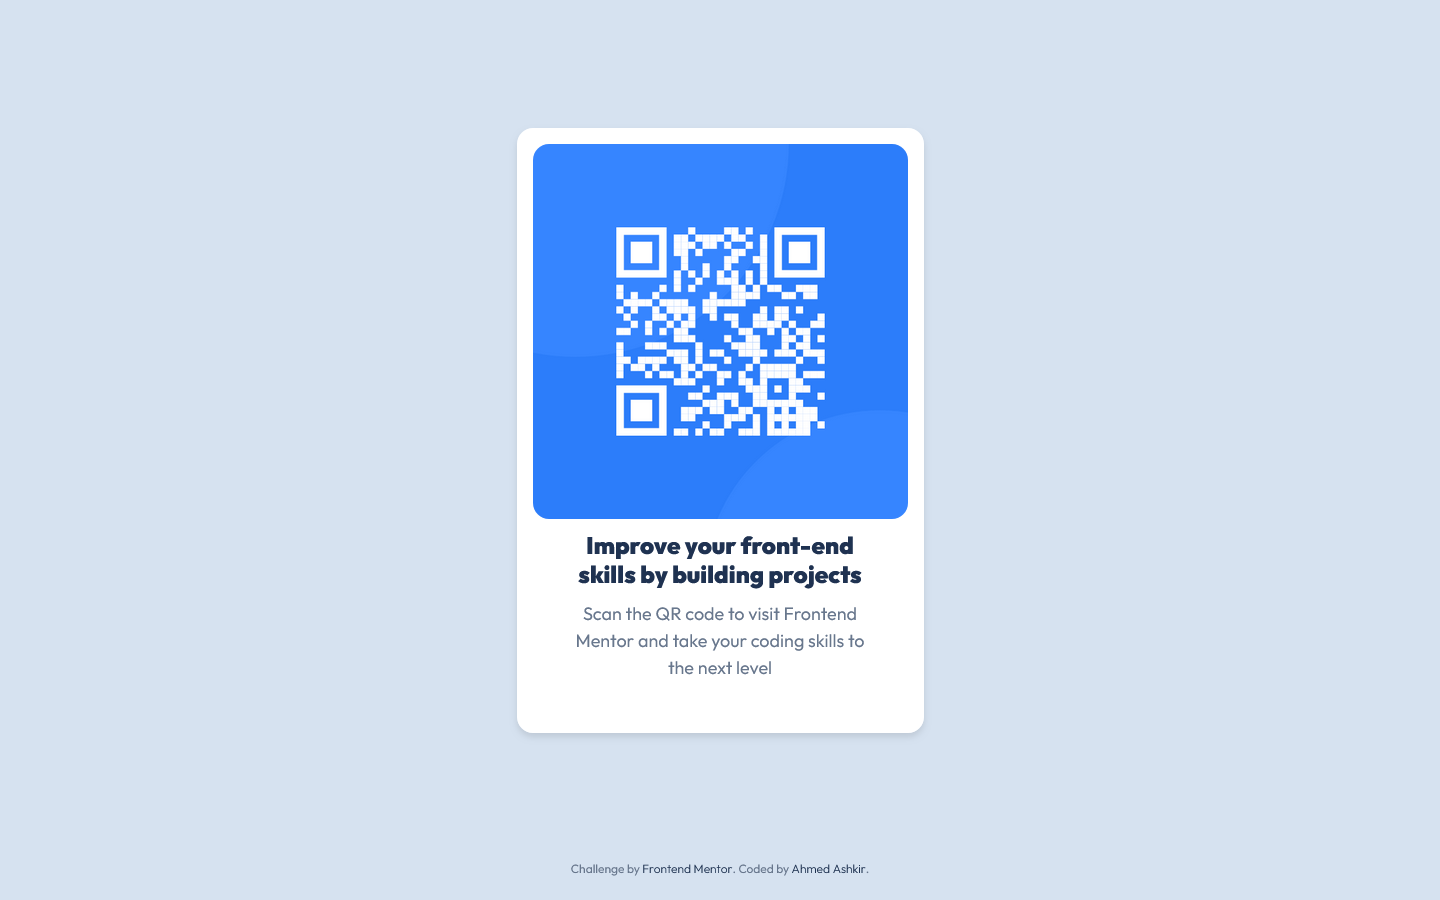
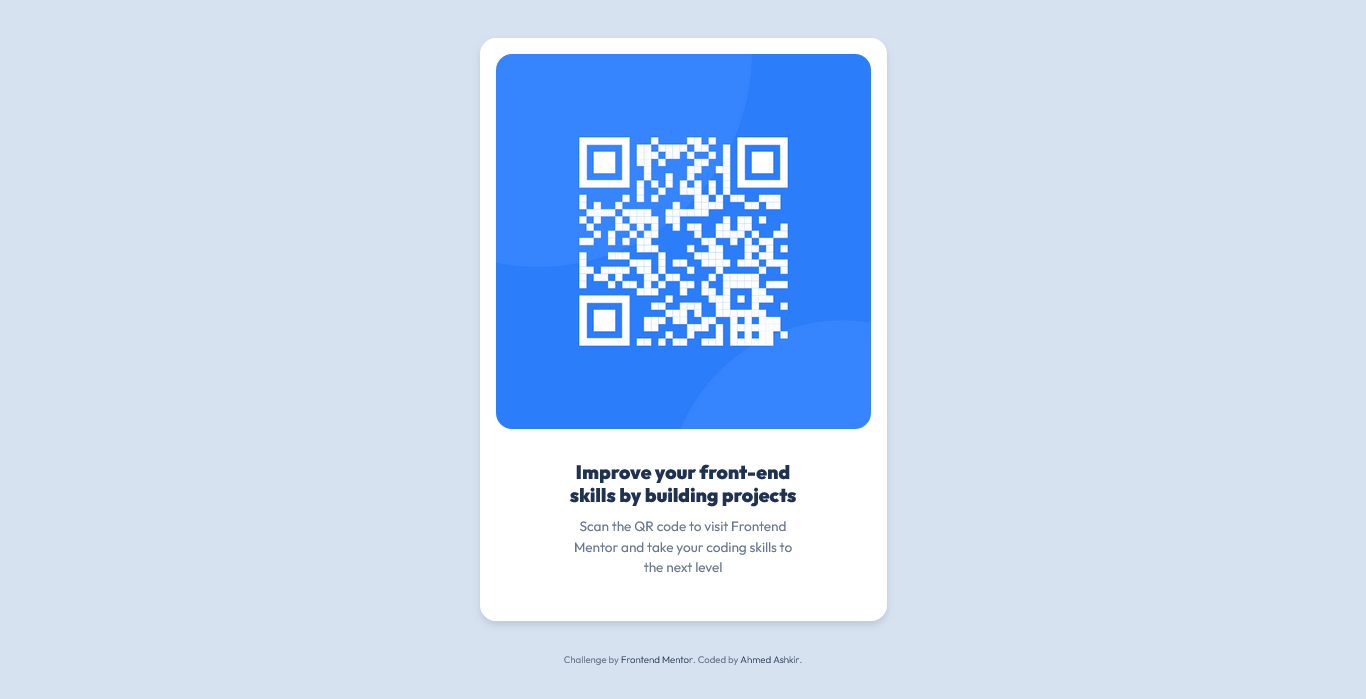
Use relative units (rem); Make text consistent on different devices

Changed region(s): [[0.3382, 0.03, 0.6764, 0.9013], [0.3997, 0.9313, 0.6149, 0.9914]]

diff --git a/style.css b/style.css
@@ -24,11 +24,15 @@ img {
     height: auto;
     display: block;
     border-radius: 1em;
+    margin-block-end: 2em;
 }
 
 .card-body {
+    max-width: 240px;
+    margin: 0 auto;
     padding: 0 2em;
     text-align: center;
+    font-size: 1rem;
 }
 
 h1, p, .attribution {
@@ -39,7 +43,7 @@ h1, p, .attribution {
 
 
 h1 {
-    font-size: 24px;
+    font-size: 1.2rem;
     color: hsl(218, 44%, 22%);
     margin: .5em 0;
     font-weight: 900;
@@ -47,7 +51,7 @@ h1 {
 }
 
 p {
-    font-size: 18px;
+    font-size: .85rem;
     color: hsl(216, 15%, 48%);
     margin: 0 0 2em;
     line-height: 1.5em;
@@ -55,10 +59,10 @@ p {
 }
 
 .attribution {
-    font-size: 12px;
+    font-size: .6rem;
     color: hsl(216, 15%, 48%);
     text-align: center;
-    margin-block-end: 2em;
+    margin-block-end: 3em;
 }
 
 .attribution a {
